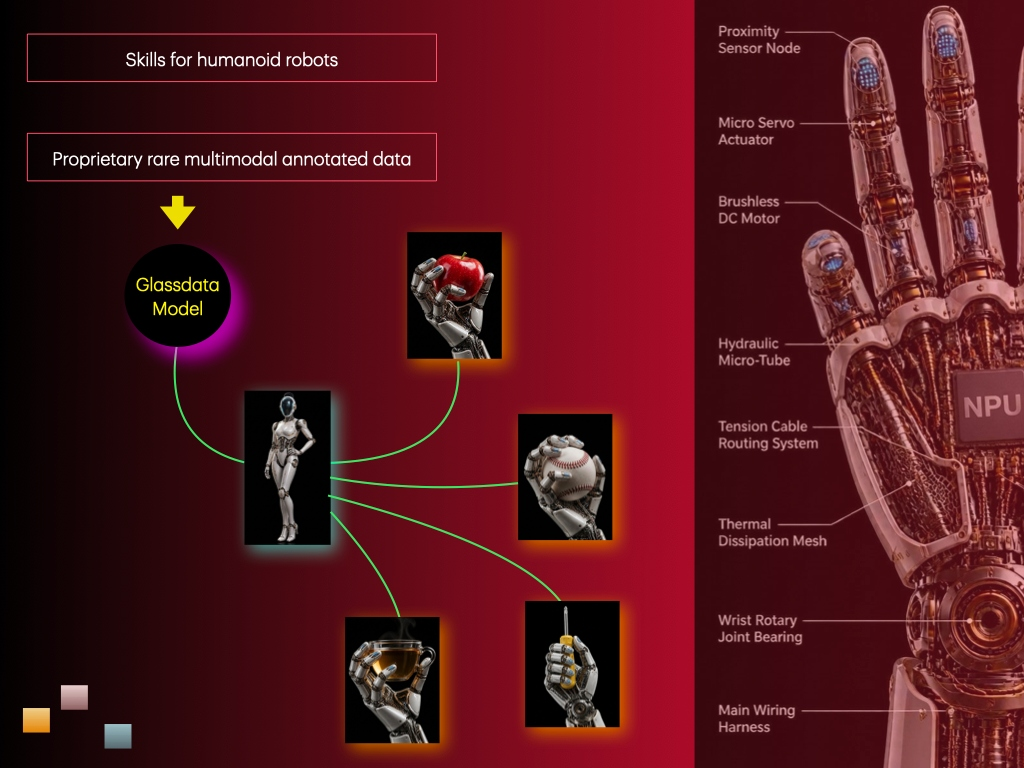
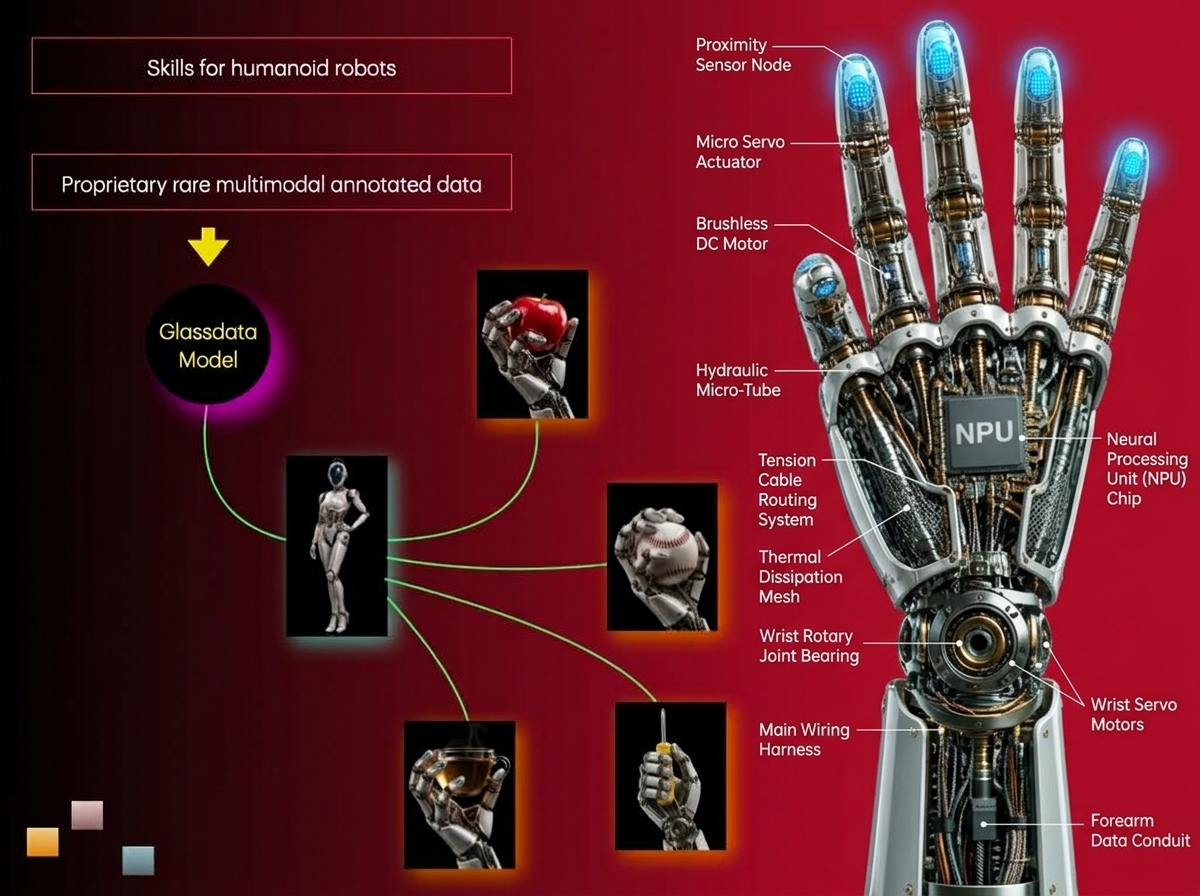
Update humanoid hand to be fully complete with all 5 fingers and accurate anatomy hotspots

diff --git a/src/components/HumanoidRobotics.jsx b/src/components/HumanoidRobotics.jsx
@@ -240,24 +240,31 @@ const HumanoidRobotics = () => {
   const anatomyHotspots = [
     {
       id: 'npu',
-      label: 'On-Hand Neural Silicon',
-      x: '34%',
-      y: '72%',
-      detail: '8 TOPS sub-watt NPU running local visuomotor transformers natively at 500 Hz.'
+      label: 'On-Hand Neural Silicon (NPU)',
+      x: '82%',
+      y: '48.5%',
+      detail: '8 TOPS sub-watt NPU running local visuomotor transformers natively at 500 Hz inside the palm.'
     },
     {
       id: 'tactile',
-      label: 'Tactile Piezoresistive Skin',
-      x: '52%',
-      y: '35%',
-      detail: '1,024-node piezoresistive array measuring micro-slip shear & normal force vectors.'
+      label: 'Tactile Proximity & Piezoresistive Skin',
+      x: '78%',
+      y: '10%',
+      detail: '1,024-node piezoresistive array and optical proximity nodes measuring micro-slip shear & normal force vectors at fingertips.'
     },
     {
       id: 'tendon',
-      label: 'Synthesized Tendon Drive',
-      x: '75%',
-      y: '58%',
-      detail: 'High-tensile Dyneema tendon cables with sub-millimeter axial strain encoders.'
+      label: 'Synthesized Tendon Drive & Hydraulics',
+      x: '67.5%',
+      y: '59%',
+      detail: 'High-tensile Dyneema tendon cables and hydraulic micro-tubes with sub-millimeter axial strain encoders.'
+    },
+    {
+      id: 'wrist',
+      label: 'Rotary Joint Bearing & Forearm Conduit',
+      x: '81.7%',
+      y: '73.5%',
+      detail: 'Low-backlash high-torque harmonic drive wrist rotary bearing with 300° range of motion and integrated sensor conduit.'
     }
   ];
 
@@ -445,9 +452,9 @@ const HumanoidRobotics = () => {
                         width: '22px',
                         height: '22px',
                         borderRadius: '50%',
-                        background: activeAnatomy === hs.id ? '#059669' : '#0284c7',
+                        background: activeAnatomy === hs.id ? 'var(--color-primary)' : '#0284c7',
                         border: '2px solid #ffffff',
-                        boxShadow: activeAnatomy === hs.id ? '0 0 15px #059669' : '0 0 10px #0284c7',
+                        boxShadow: activeAnatomy === hs.id ? '0 0 15px var(--color-primary)' : '0 0 10px #0284c7',
                         display: 'flex',
                         alignItems: 'center',
                         justifyContent: 'center',
@@ -466,11 +473,11 @@ const HumanoidRobotics = () => {
               <div style={{
                 marginTop: '1rem',
                 padding: '1rem 1.25rem',
-                background: '#f0fdf4',
+                background: 'var(--card-highlight-bg)',
                 borderRadius: '0.85rem',
-                border: '1px solid rgba(226, 232, 240, 0.9)'
+                border: '1px solid var(--card-highlight-border)'
               }}>
-                <span style={{ fontSize: '0.72rem', color: '#059669', textTransform: 'uppercase', letterSpacing: '0.08em', fontWeight: 700 }}>
+                <span style={{ fontSize: '0.72rem', color: 'var(--color-primary)', textTransform: 'uppercase', letterSpacing: '0.08em', fontWeight: 700 }}>
                   Click to inspect Robotic Hand Anatomy: {currentAnatomy.label}
                 </span>
                 <p style={{ fontSize: '0.88rem', color: '#334155', marginTop: '0.25rem', lineHeight: 1.4 }}>
